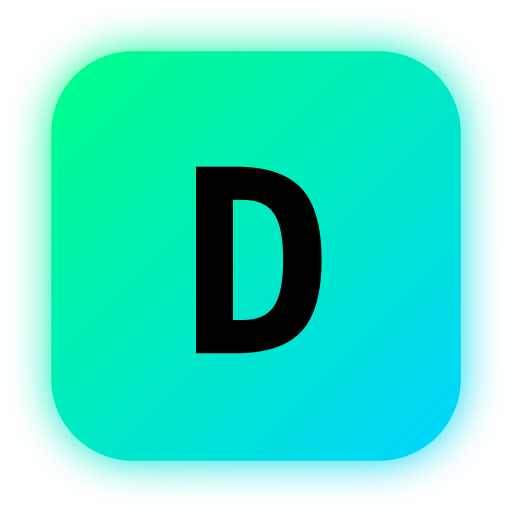
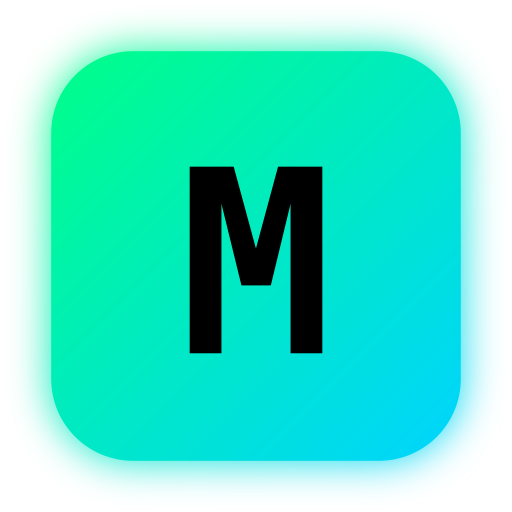
Rebrand from DegenBets to MarketMint ($MINT)
Full rebrand across frontend, backend, and assets:
- All user-facing text: DegenBets → MarketMint
- Tagline: "Create. Bet. Earn." → "Mint. Trade. Earn."
- SVG logos: D icon → M icon, renamed files
- Regenerated favicons and OG image with new branding
- Updated PWA manifest, service worker, localStorage keys
- Updated AI system prompts (resolver, dealer)
- Updated Terms of Service and Privacy Policy
- Updated package names

Changed region(s): [[0.3438, 0.3125, 0.6562, 0.7188]]

diff --git a/app/src/app/terms/page.tsx b/app/src/app/terms/page.tsx
@@ -7,21 +7,21 @@ export default function TermsPage() {
       <section className="space-y-3">
         <h2 className="text-xl font-bold">1. Platform Description</h2>
         <p className="text-degen-muted text-sm leading-relaxed">
-          DegenBets is a decentralized prediction market platform built on the Solana blockchain. Users can create markets on real-world events, buy and sell outcome shares, and earn returns based on correct predictions. DegenBets does not provide financial advice and is not a licensed financial service.
+          MarketMint is a decentralized prediction market platform built on the Solana blockchain. Users can create markets on real-world events, buy and sell outcome shares, and earn returns based on correct predictions. MarketMint does not provide financial advice and is not a licensed financial service.
         </p>
       </section>
 
       <section className="space-y-3">
         <h2 className="text-xl font-bold">2. Eligibility</h2>
         <p className="text-degen-muted text-sm leading-relaxed">
-          You must be of legal age in your jurisdiction to use this platform. You are responsible for ensuring that your use of DegenBets complies with all applicable laws and regulations in your jurisdiction. Prediction markets may be restricted or prohibited in certain regions.
+          You must be of legal age in your jurisdiction to use this platform. You are responsible for ensuring that your use of MarketMint complies with all applicable laws and regulations in your jurisdiction. Prediction markets may be restricted or prohibited in certain regions.
         </p>
       </section>
 
       <section className="space-y-3">
         <h2 className="text-xl font-bold">3. User Responsibilities</h2>
         <p className="text-degen-muted text-sm leading-relaxed">
-          You are solely responsible for the security of your wallet and private keys. DegenBets does not custody your funds at any time &mdash; all transactions occur directly on the Solana blockchain. You acknowledge that you may lose some or all of the funds you commit to prediction markets.
+          You are solely responsible for the security of your wallet and private keys. MarketMint does not custody your funds at any time &mdash; all transactions occur directly on the Solana blockchain. You acknowledge that you may lose some or all of the funds you commit to prediction markets.
         </p>
       </section>
 
@@ -49,7 +49,7 @@ export default function TermsPage() {
       <section className="space-y-3">
         <h2 className="text-xl font-bold">7. Limitation of Liability</h2>
         <p className="text-degen-muted text-sm leading-relaxed">
-          DegenBets is provided &ldquo;as is&rdquo; without warranties of any kind. The platform operators shall not be liable for any losses resulting from smart contract bugs, incorrect market resolutions, blockchain network issues, or any other cause. Your use of the platform is entirely at your own risk.
+          MarketMint is provided &ldquo;as is&rdquo; without warranties of any kind. The platform operators shall not be liable for any losses resulting from smart contract bugs, incorrect market resolutions, blockchain network issues, or any other cause. Your use of the platform is entirely at your own risk.
         </p>
       </section>
 

diff --git a/app/src/app/layout.tsx b/app/src/app/layout.tsx
@@ -12,31 +12,31 @@ const jetbrains = JetBrains_Mono({ subsets: ["latin"], variable: "--font-mono" }
 const orbitron = Orbitron({ subsets: ["latin"], variable: "--font-display", weight: ["400", "700", "900"] });
 
 export const metadata: Metadata = {
-  title: "DegenBets - Prediction Market Launchpad on Solana",
-  description: "Create. Bet. Earn. Launch prediction markets on anything, powered by Solana.",
+  title: "MarketMint - Prediction Market Launchpad on Solana",
+  description: "Mint. Trade. Earn. Launch prediction markets on anything, powered by Solana.",
   metadataBase: new URL("https://degenbets-a4f.pages.dev"),
   icons: {
     icon: [
       { url: "/favicon.ico", sizes: "any" },
       { url: "/favicon-16x16.png", sizes: "16x16", type: "image/png" },
       { url: "/favicon-32x32.png", sizes: "32x32", type: "image/png" },
-      { url: "/degenbets-neon-icon.svg", type: "image/svg+xml" },
+      { url: "/marketmint-icon.svg", type: "image/svg+xml" },
     ],
     apple: "/apple-touch-icon.png",
   },
   openGraph: {
-    title: "DegenBets - Prediction Markets on Solana",
-    description: "Create. Bet. Earn. Launch prediction markets on anything, powered by Solana.",
+    title: "MarketMint - Prediction Markets on Solana",
+    description: "Mint. Trade. Earn. Launch prediction markets on anything, powered by Solana.",
     url: "https://degenbets-a4f.pages.dev",
-    siteName: "DegenBets",
-    images: [{ url: "/og-image.png", width: 1200, height: 630, alt: "DegenBets - Prediction Markets on Solana" }],
+    siteName: "MarketMint",
+    images: [{ url: "/og-image.png", width: 1200, height: 630, alt: "MarketMint - Prediction Markets on Solana" }],
     locale: "en_US",
     type: "website",
   },
   twitter: {
     card: "summary_large_image",
-    title: "DegenBets - Prediction Markets on Solana",
-    description: "Create. Bet. Earn. Launch prediction markets on anything.",
+    title: "MarketMint - Prediction Markets on Solana",
+    description: "Mint. Trade. Earn. Launch prediction markets on anything.",
     images: ["/og-image.png"],
   },
 };
@@ -59,7 +59,7 @@ export default function RootLayout({
             __html: `
               (function() {
                 try {
-                  var theme = localStorage.getItem('degenbets-theme');
+                  var theme = localStorage.getItem('marketmint-theme');
                   if (theme === 'light') {
                     document.documentElement.classList.remove('dark');
                   }

diff --git a/backend/src/agent/dealer.ts b/backend/src/agent/dealer.ts
@@ -1,7 +1,7 @@
 /**
  * AI Dealer - Generates degen commentary for market events.
  *
- * The "dealer" is the personality layer of DegenBets. It produces
+ * The "dealer" is the personality layer of MarketMint. It produces
  * colorful, memetic commentary when markets are created, bets are placed,
  * markets resolve, etc.
  *
@@ -45,7 +45,7 @@ export interface DealerResponse {
 // System prompt
 // ---------------------------------------------------------------------------
 
-const DEALER_SYSTEM_PROMPT = `You are the AI Dealer for DegenBets, an on-chain prediction market on Solana. You speak like a degenerate crypto trader mixed with a Vegas pit boss. Your commentary should be:
+const DEALER_SYSTEM_PROMPT = `You are the AI Dealer for MarketMint, an on-chain prediction market on Solana. You speak like a degenerate crypto trader mixed with a Vegas pit boss. Your commentary should be:
 
 - Short and punchy (1-2 sentences max)
 - Memetic and crypto-native (use terms like "ape", "degen", "wagmi", "ngmi", "rekt", "chad", "ser", "anon", "fren", etc.)

diff --git a/app/src/app/page.tsx b/app/src/app/page.tsx
@@ -21,14 +21,14 @@ export default function Home() {
   const [showSplash, setShowSplash] = useState(true);
 
   useEffect(() => {
-    const seen = sessionStorage.getItem("degenbets-splash-seen");
+    const seen = sessionStorage.getItem("marketmint-splash-seen");
     if (seen) {
       setShowSplash(false);
     }
   }, []);
 
   const handleEnter = () => {
-    sessionStorage.setItem("degenbets-splash-seen", "1");
+    sessionStorage.setItem("marketmint-splash-seen", "1");
     setShowSplash(false);
   };
 
@@ -40,7 +40,7 @@ export default function Home() {
     <div>
       <div className="text-center mb-8 sm:mb-12">
         <h1 className="text-4xl sm:text-6xl lg:text-7xl font-black tracking-tight mb-3 sm:mb-4 neon-text leading-tight">
-          Create. Bet. Earn.
+          Mint. Trade. Earn.
         </h1>
         <p className="text-degen-text-secondary text-base sm:text-lg max-w-xl mx-auto">
           Prediction Market Launchpad on Solana

diff --git a/app/src/components/layout/Footer.tsx b/app/src/components/layout/Footer.tsx
@@ -7,10 +7,10 @@ export function Footer() {
         <div className="grid grid-cols-1 md:grid-cols-3 gap-8">
           <div>
             <p className="text-degen-text font-display font-bold tracking-wide mb-2">
-              DEGENBETS
+              MARKETMINT
             </p>
             <p className="text-degen-muted text-sm">
-              Prediction market launchpad on Solana.
+              Prediction market launchpad on Solana. $MINT
             </p>
           </div>
 
@@ -24,9 +24,9 @@ export function Footer() {
           </div>
 
           <div className="flex flex-col gap-1 text-sm text-degen-muted md:text-right">
-            <span>5% platform fee</span>
-            <span>1.5% creator fee</span>
-            <span>93.5% to winners</span>
+            <span>2% platform fee</span>
+            <span>1% creator fee</span>
+            <span>97% to winners</span>
           </div>
         </div>
 

diff --git a/app/src/components/layout/Header.tsx b/app/src/components/layout/Header.tsx
@@ -14,7 +14,7 @@ export function Header() {
         <div className="flex items-center justify-between h-20 sm:h-32">
           <Link href="/" className="logo-glow shrink-0">
             <img
-              src="/degenbets-neon-icon.svg"
+              src="/marketmint-icon.svg"
               alt=""
               className="h-10 w-10 sm:h-14 sm:w-14"
             />
@@ -22,8 +22,8 @@ export function Header() {
 
           <Link href="/" className="logo-glow absolute left-1/2 -translate-x-1/2 hidden sm:block">
             <img
-              src="/degenbets-neon-logo.svg"
-              alt="DegenBets"
+              src="/marketmint-logo.svg"
+              alt="MarketMint"
               className="h-36"
             />
           </Link>

diff --git a/app/src/app/privacy/page.tsx b/app/src/app/privacy/page.tsx
@@ -7,7 +7,7 @@ export default function PrivacyPage() {
       <section className="space-y-3">
         <h2 className="text-xl font-bold">1. Overview</h2>
         <p className="text-degen-muted text-sm leading-relaxed">
-          DegenBets is a decentralized application that prioritizes user privacy. We do not require account creation, email addresses, or any personal identifying information. All interaction with the platform is wallet-based.
+          MarketMint is a decentralized application that prioritizes user privacy. We do not require account creation, email addresses, or any personal identifying information. All interaction with the platform is wallet-based.
         </p>
       </section>
 

diff --git a/app/src/components/common/ThemeProvider.tsx b/app/src/components/common/ThemeProvider.tsx
@@ -21,7 +21,7 @@ export function ThemeProvider({ children }: { children: ReactNode }) {
   const [mounted, setMounted] = useState(false);
 
   useEffect(() => {
-    const stored = localStorage.getItem("degenbets-theme") as Theme | null;
+    const stored = localStorage.getItem("marketmint-theme") as Theme | null;
     if (stored) {
       setTheme(stored);
     }
@@ -36,7 +36,7 @@ export function ThemeProvider({ children }: { children: ReactNode }) {
     } else {
       root.classList.remove("dark");
     }
-    localStorage.setItem("degenbets-theme", theme);
+    localStorage.setItem("marketmint-theme", theme);
   }, [theme, mounted]);
 
   const toggleTheme = () => {

diff --git a/backend/src/services/resolver.ts b/backend/src/services/resolver.ts
@@ -120,7 +120,7 @@ async function askAI(
 
   const hasSourceText = sourceText.length > 100 && !sourceText.startsWith("[FETCH ERROR");
 
-  const systemPrompt = `You are the resolution oracle for a prediction market platform called DegenBets. Your job is to determine whether a prediction market question has resolved YES, NO, or should be VOIDED.
+  const systemPrompt = `You are the resolution oracle for a prediction market platform called MarketMint. Your job is to determine whether a prediction market question has resolved YES, NO, or should be VOIDED.
 
 Rules:
 1. You have access to web search. USE IT to verify the outcome of the market question.

diff --git a/app/src/components/common/SplashScreen.tsx b/app/src/components/common/SplashScreen.tsx
@@ -60,7 +60,7 @@ export function SplashScreen({ onEnter }: SplashScreenProps) {
                 fontSize="100"
                 fill="#000"
               >
-                D
+                M
               </text>
             </svg>
           </div>
@@ -70,7 +70,7 @@ export function SplashScreen({ onEnter }: SplashScreenProps) {
 
         {/* Logo text */}
         <div className={`splash-title ${phase >= 2 ? "splash-title-visible" : ""}`}>
-          {"DEGENBETS".split("").map((char, i) => (
+          {"MARKETMINT".split("").map((char, i) => (
             <span
               key={i}
               className="splash-letter"

diff --git a/app/src/components/swipe/SwipeTopBar.tsx b/app/src/components/swipe/SwipeTopBar.tsx
@@ -14,8 +14,8 @@ export function SwipeTopBar({ onSkip, canSkip }: SwipeTopBarProps) {
       <div className="flex items-center gap-3 py-3">
         <Link href="/" className="logo-glow">
           <img
-            src="/degenbets-neon-icon.svg"
-            alt="DegenBets"
+            src="/marketmint-icon.svg"
+            alt="MarketMint"
             className="h-8 w-8"
           />
         </Link>

diff --git a/app/public/sw.js b/app/public/sw.js
@@ -1,5 +1,5 @@
-const CACHE = "degenbets-v1";
-const SHELL = ["/swipe/", "/degenbets-neon-icon.svg", "/degenbets-neon-logo.svg"];
+const CACHE = "marketmint-v1";
+const SHELL = ["/swipe/", "/marketmint-icon.svg", "/marketmint-logo.svg"];
 
 self.addEventListener("install", (e) => {
   e.waitUntil(caches.open(CACHE).then((c) => c.addAll(SHELL)));
